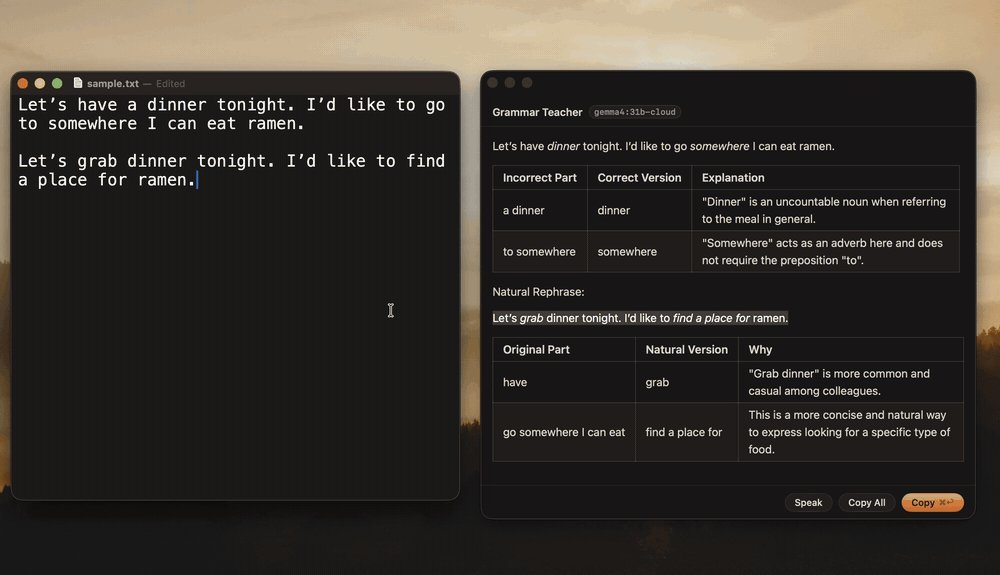
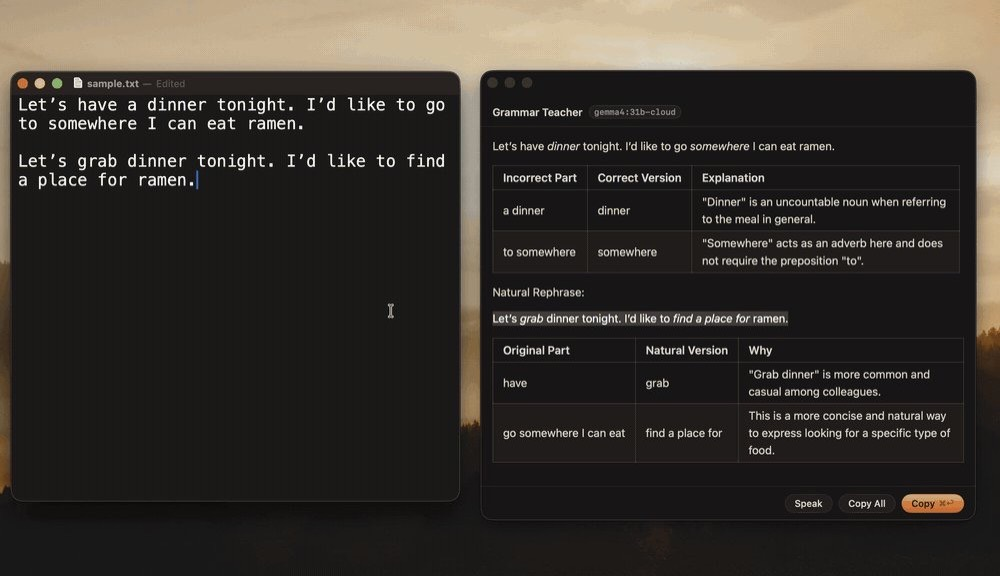
feat: improve docs demo accessibility and prompt viewer

diff --git a/docs/index.html b/docs/index.html
@@ -16,6 +16,7 @@
 <meta property="og:image" content="https://impelcrypto.github.io/Holster/assets/og.jpg">
 <meta property="og:image:width" content="1200">
 <meta property="og:image:height" content="630">
+<meta property="og:image:alt" content="Holster running a Grammar Teacher command on selected text in a floating markdown window">
 <meta name="twitter:card" content="summary_large_image">
 <meta name="twitter:title" content="Holster — Run your own prompts on selected text, anywhere on macOS">
 <meta name="twitter:description" content="Select text in any app, press a hotkey, and the answer streams into a floating markdown window. No telemetry, no backend, MIT-licensed.">
@@ -39,6 +40,8 @@
     --card: rgba(255, 255, 255, .70);
     --line: rgba(0, 0, 0, .10);
     --inset: rgba(0, 0, 0, .05);
+    /* opaque twin of --bg under --inset: a fade must end solid to hide text */
+    --pane-bg: #E2E1E4;
     --amber: #FFB354;
     --copper: #C66E3D;
     --accent-ink: #A8542A;
@@ -58,6 +61,7 @@
       --card: rgba(255, 255, 255, .05);
       --line: rgba(255, 255, 255, .08);
       --inset: rgba(0, 0, 0, .25);
+      --pane-bg: #131214;
       --accent-ink: #FFB354;
       --grad-ink: linear-gradient(135deg, #FFC97E, #C66E3D);
       --nav-bg: rgba(25, 24, 27, .72);
@@ -74,6 +78,7 @@
     --card: rgba(255, 255, 255, .05);
     --line: rgba(255, 255, 255, .08);
     --inset: rgba(0, 0, 0, .25);
+    --pane-bg: #131214;
     --accent-ink: #FFB354;
     --grad-ink: linear-gradient(135deg, #FFC97E, #C66E3D);
     --nav-bg: rgba(25, 24, 27, .72);
@@ -277,14 +282,16 @@
   /* prompt tab viewer */
   .prompt-pair { display: grid; grid-template-columns: 1.2fr 1fr; gap: 24px; align-items: stretch; }
   .prompt-pair > * { min-width: 0; }
-  .prompt-viewer { position: relative; border: 1px solid var(--line); border-radius: 14px; background: var(--inset); overflow: hidden; }
+  .prompt-viewer { position: relative; border: 1px solid var(--line); border-radius: 14px; background: var(--pane-bg); overflow: hidden; }
   .prompt-viewer::after {
     content: ""; position: absolute; left: 0; right: 0; bottom: 0; height: 56px;
     border-radius: 0 0 13px 13px; pointer-events: none; opacity: 0; transition: opacity .2s;
-    background: linear-gradient(transparent, var(--inset));
+    background: linear-gradient(transparent, var(--pane-bg));
   }
   .prompt-viewer.fade::after { opacity: 1; }
   .prompt-tabs { display: flex; align-items: center; flex-wrap: wrap; gap: 4px; padding: 8px 10px; border-bottom: 1px solid var(--line); }
+  /* contents: the tabs stay direct flex children while ARIA gets its own tablist */
+  .prompt-tabs .tablist { display: contents; }
   .prompt-tab {
     font-family: ui-monospace, "SF Mono", Menlo, monospace; font-size: 12px; cursor: pointer;
     padding: 6px 11px; border-radius: 8px; border: 1px solid transparent; background: none;
@@ -297,6 +304,8 @@
     font-family: ui-monospace, "SF Mono", Menlo, monospace; font-size: 12.5px; line-height: 1.7;
     padding: 16px 18px; height: 460px; overflow: auto; white-space: pre-wrap;
   }
+  /* the pane fills its overflow-hidden parent, so an outside ring gets clipped */
+  .prompt-pane:focus-visible { outline-offset: -3px; }
   @media (min-width: 901px) {
     /* crop the settings shot to the viewer's height so the two columns stay level */
     .prompt-pair .shot { display: flex; flex-direction: column; }
@@ -454,6 +463,7 @@
     <div class="demo-frame reveal">
       <video width="1000" height="576" autoplay muted loop playsinline poster="assets/demo-still.jpg" aria-label="Selecting a sentence in TextEdit, pressing the hotkey, and the Grammar Teacher command streaming corrections into a floating window">
         <source src="assets/demo.mp4" type="video/mp4">
+        <img src="assets/demo-still.jpg" width="1000" height="576" alt="Selecting a sentence in TextEdit, pressing the hotkey, and the Grammar Teacher command streaming corrections into a floating window">
       </video>
     </div>
   </div>
@@ -489,13 +499,15 @@
       <p class="section-sub reveal">Drop <code>{selection}</code> into a prompt. That's the whole trick.</p>
       <div class="prompt-pair reveal">
         <div class="prompt-viewer">
-          <div class="prompt-tabs" role="tablist" aria-label="Example prompts">
-            <button class="prompt-tab" role="tab" aria-selected="true" aria-controls="pp-0" id="pt-0" type="button">Grammar Teacher</button>
-            <button class="prompt-tab" role="tab" aria-selected="false" aria-controls="pp-1" id="pt-1" type="button">Translator</button>
-            <button class="prompt-tab" role="tab" aria-selected="false" aria-controls="pp-2" id="pt-2" type="button">What does it stand for?</button>
+          <div class="prompt-tabs">
+            <div class="tablist" role="tablist" aria-label="Example prompts">
+              <button class="prompt-tab" role="tab" aria-selected="true" aria-controls="pp-0" id="pt-0" type="button">Grammar Teacher</button>
+              <button class="prompt-tab" role="tab" aria-selected="false" aria-controls="pp-1" id="pt-1" type="button">Translator</button>
+              <button class="prompt-tab" role="tab" aria-selected="false" aria-controls="pp-2" id="pt-2" type="button">What does it stand for?</button>
+            </div>
             <button class="copy prompt-copy" aria-live="polite" type="button">Copy</button>
           </div>
-          <pre class="prompt-pane" id="pp-0" role="tabpanel" aria-labelledby="pt-0">You are an English grammar checker for non-native engineers.
+          <pre class="prompt-pane" id="pp-0" role="tabpanel" aria-labelledby="pt-0" tabindex="0">You are an English grammar checker for non-native engineers.
 
 Correct grammar and spelling only.
 Do NOT rewrite sentences for style unless instructed in the Natural Rephrase section below.
@@ -611,18 +623,18 @@ It seems *a bug is going around* the office.
 
 | Original Part | Natural Version | Why |
 | --- | --- | --- |
-| a lot of people are getting sick | a cold is going around | This is a more natural and idiomatic way to describe many people becoming sick in the same place. |
+| a lot of people are getting sick | a bug is going around | This is a more natural and idiomatic way to describe many people becoming sick in the same place. |
 
 User sentence:
 {selection}</pre>
-          <pre class="prompt-pane" id="pp-1" role="tabpanel" aria-labelledby="pt-1" hidden>You are a translator.
+          <pre class="prompt-pane" id="pp-1" role="tabpanel" aria-labelledby="pt-1" tabindex="0" hidden>You are a translator.
 
 - If input is Japanese → translate to English
 - If input is any other language → translate to Japanese
 Output only the translation, nothing else.
 
 {selection}</pre>
-          <pre class="prompt-pane" id="pp-2" role="tabpanel" aria-labelledby="pt-2" hidden>You are an expert at expanding English abbreviations and acronyms.
+          <pre class="prompt-pane" id="pp-2" role="tabpanel" aria-labelledby="pt-2" tabindex="0" hidden>You are an expert at expanding English abbreviations and acronyms.
 
 For the input abbreviation "{selection}", output in EXACTLY this format,
 with a line break between the two lines:

diff --git a/Sources/HolsterKit/Resources/examples/prompts/grammar.md b/Sources/HolsterKit/Resources/examples/prompts/grammar.md
@@ -114,7 +114,7 @@ It seems *a bug is going around* the office.
 
 | Original Part | Natural Version | Why |
 | --- | --- | --- |
-| a lot of people are getting sick | a cold is going around | This is a more natural and idiomatic way to describe many people becoming sick in the same place. |
+| a lot of people are getting sick | a bug is going around | This is a more natural and idiomatic way to describe many people becoming sick in the same place. |
 
 User sentence:
 {selection}
